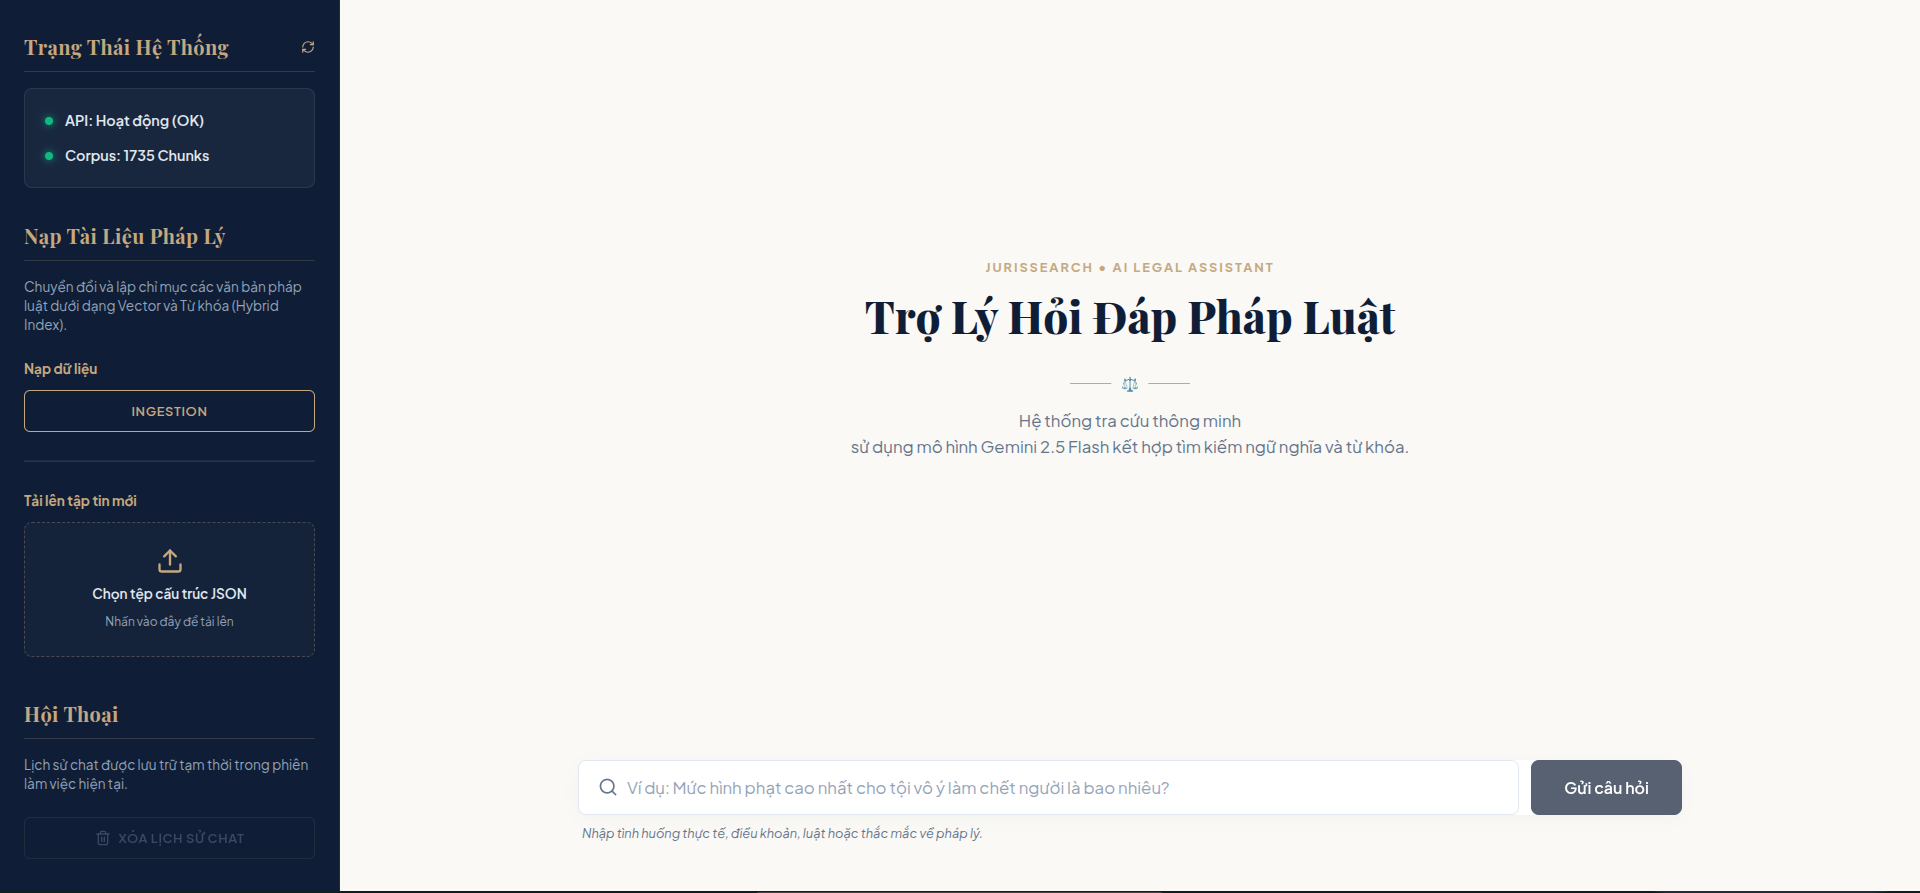
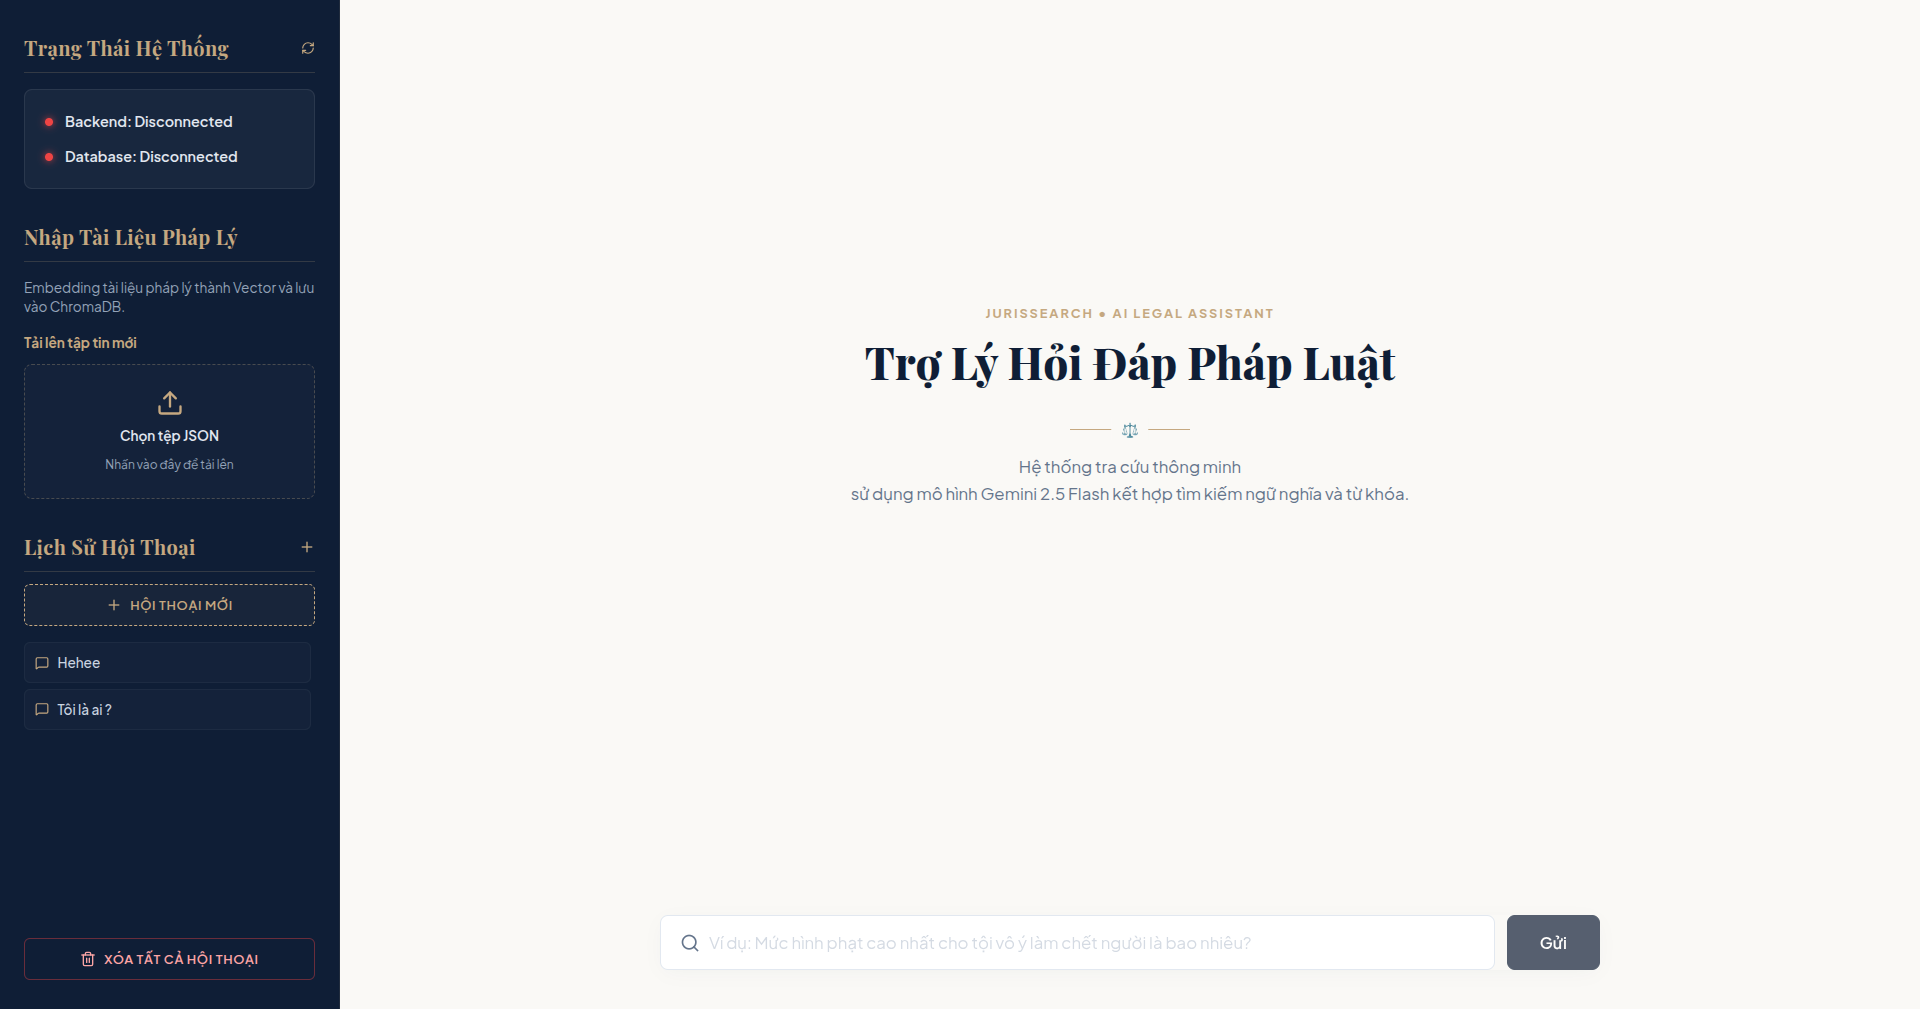
update demo image, flow chart

diff --git a/README.md b/README.md
@@ -57,6 +57,23 @@ Hệ thống Hỏi Đáp Văn Bản Pháp Luật được xây dựng hoàn toà
 ### Giao diện câu trả lời và trích dẫn
 ![Giao diện chính](images/3.png)
 
+
+## Flow
+
+```mermaid
+graph TD
+    A[User Query & History] --> B[Step 0: Query Condensation <br/> gemini-3.1-flash-lite]
+    B -->|Condensed Query| C1[Step 1: Dense Search <br/> gemini-embedding-2 & ChromaDB]
+    B -->|Condensed Query| C2[Step 2: Sparse Search <br/> BM25 Okapi]
+    C1 -->|Dense Results| D[Step 3: Reciprocal Rank Fusion <br/> RRF Score Calculation]
+    C2 -->|Sparse Results| D
+    D -->|Top N Chunks| E[Step 4: Prompt Formulation <br/> Context + History + Query]
+    E --> F[Step 5: LLM Generation <br/> gemini-3.1-flash-lite]
+    F --> G[Step 6: Post-processing <br/> Fallback Check & Source Cleanup]
+    G --> H[Final QueryResponse]
+```
+
+
 ## Cấu trúc Thư mục
 
 ```text

diff --git a/README_EN.md b/README_EN.md
@@ -59,6 +59,22 @@ The Legal Document Question-Answering System is built entirely in Python, using 
 ### Answers and Citations
 ![Citations and Sources](images/3.png)
 
+
+## Flow
+
+```mermaid
+graph TD
+    A[User Query & History] --> B[Step 0: Query Condensation <br/> gemini-3.1-flash-lite]
+    B -->|Condensed Query| C1[Step 1: Dense Search <br/> gemini-embedding-2 & ChromaDB]
+    B -->|Condensed Query| C2[Step 2: Sparse Search <br/> BM25 Okapi]
+    C1 -->|Dense Results| D[Step 3: Reciprocal Rank Fusion <br/> RRF Score Calculation]
+    C2 -->|Sparse Results| D
+    D -->|Top N Chunks| E[Step 4: Prompt Formulation <br/> Context + History + Query]
+    E --> F[Step 5: LLM Generation <br/> gemini-3.1-flash-lite]
+    F --> G[Step 6: Post-processing <br/> Fallback Check & Source Cleanup]
+    G --> H[Final QueryResponse]
+```
+
 ## Folder Structure
 
 ```text

diff --git a/README_ZH.md b/README_ZH.md
@@ -57,6 +57,21 @@
 ### 回答与引用展示界面
 ![引用与来源界面](images/3.png)
 
+
+## Flow
+
+```mermaid
+graph TD
+    A[User Query & History] --> B[Step 0: Query Condensation <br/> gemini-3.1-flash-lite]
+    B -->|Condensed Query| C1[Step 1: Dense Search <br/> gemini-embedding-2 & ChromaDB]
+    B -->|Condensed Query| C2[Step 2: Sparse Search <br/> BM25 Okapi]
+    C1 -->|Dense Results| D[Step 3: Reciprocal Rank Fusion <br/> RRF Score Calculation]
+    C2 -->|Sparse Results| D
+    D -->|Top N Chunks| E[Step 4: Prompt Formulation <br/> Context + History + Query]
+    E --> F[Step 5: LLM Generation <br/> gemini-3.1-flash-lite]
+    F --> G[Step 6: Post-processing <br/> Fallback Check & Source Cleanup]
+    G --> H[Final QueryResponse]
+```
 ## 目录结构
 
 ```text
